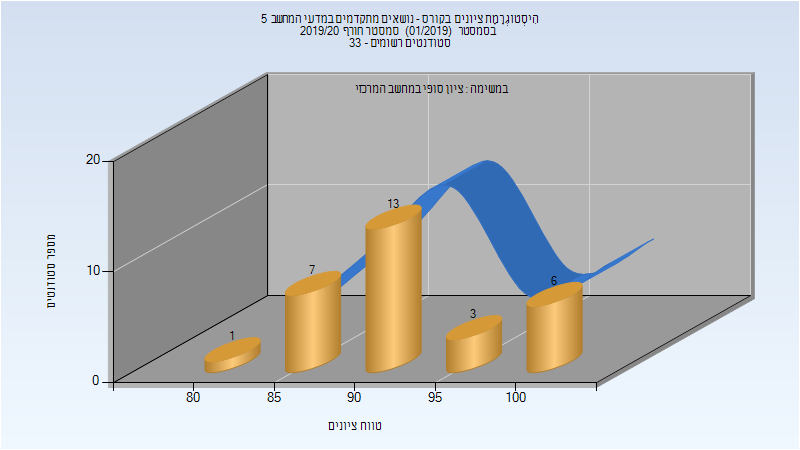
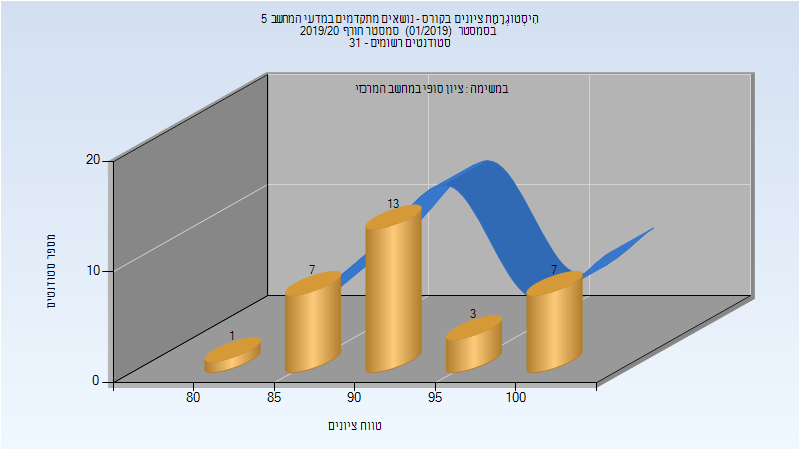
Deploy michael-maltsev/technion-histograms to github.com/michael-maltsev/technion-histograms.git:gh-pages

Changed region(s): [[0.6562, 0.4978, 0.8125, 0.6844]]

diff --git a/104285/index.html b/104285/index.html
@@ -935,6 +935,58 @@
 </tr>
 </tbody>
 </table>
+<h3>מבחן מועד ב'</h3>
+<p><img src="201902/Exam_B.png" alt="201902 Exam_B" /></p>
+<table>
+<thead>
+<tr>
+<th>סטודנטים</th>
+<th>עברו/נכשלו</th>
+<th>אחוז עוברים</th>
+<th>ציון מינימלי</th>
+<th>ציון מקסימלי</th>
+<th>ממוצע</th>
+<th>חציון</th>
+</tr>
+</thead>
+<tbody>
+<tr>
+<td>13</td>
+<td>12/1</td>
+<td>92</td>
+<td>54</td>
+<td>96</td>
+<td>74.462</td>
+<td>74</td>
+</tr>
+</tbody>
+</table>
+<h3>סופי מועד ב'</h3>
+<p><img src="201902/Final_B.png" alt="201902 Final_B" /></p>
+<table>
+<thead>
+<tr>
+<th>סטודנטים</th>
+<th>עברו/נכשלו</th>
+<th>אחוז עוברים</th>
+<th>ציון מינימלי</th>
+<th>ציון מקסימלי</th>
+<th>ממוצע</th>
+<th>חציון</th>
+</tr>
+</thead>
+<tbody>
+<tr>
+<td>13</td>
+<td>13/0</td>
+<td>100</td>
+<td>57</td>
+<td>99</td>
+<td>78</td>
+<td>76</td>
+</tr>
+</tbody>
+</table>
 <h3>סופי</h3>
 <p><img src="201902/Finals.png" alt="201902 Finals" /></p>
 <table>

diff --git a/324259/index.html b/324259/index.html
@@ -78,6 +78,32 @@
 </tr>
 </tbody>
 </table>
+<h3>סופי מועד ב'</h3>
+<p><img src="201902/Final_B.png" alt="201902 Final_B" /></p>
+<table>
+<thead>
+<tr>
+<th>סטודנטים</th>
+<th>עברו/נכשלו</th>
+<th>אחוז עוברים</th>
+<th>ציון מינימלי</th>
+<th>ציון מקסימלי</th>
+<th>ממוצע</th>
+<th>חציון</th>
+</tr>
+</thead>
+<tbody>
+<tr>
+<td>30</td>
+<td>29/1</td>
+<td>97</td>
+<td>50</td>
+<td>97.5</td>
+<td>81.333</td>
+<td>80</td>
+</tr>
+</tbody>
+</table>
 <h3>סופי</h3>
 <p><img src="201902/Finals.png" alt="201902 Finals" /></p>
 <table>

diff --git a/236520/index.html b/236520/index.html
@@ -77,5 +77,31 @@
 </tr>
 </tbody>
 </table>
+<h3>סופי</h3>
+<p><img src="201902/Finals.png" alt="201902 Finals" /></p>
+<table>
+<thead>
+<tr>
+<th>סטודנטים</th>
+<th>עברו/נכשלו</th>
+<th>אחוז עוברים</th>
+<th>ציון מינימלי</th>
+<th>ציון מקסימלי</th>
+<th>ממוצע</th>
+<th>חציון</th>
+</tr>
+</thead>
+<tbody>
+<tr>
+<td>10</td>
+<td>10/0</td>
+<td>100</td>
+<td>68</td>
+<td>99</td>
+<td>86.9</td>
+<td>89.5</td>
+</tr>
+</tbody>
+</table>
   </body>
 </html>

diff --git a/104183/index.html b/104183/index.html
@@ -51,5 +51,31 @@
 </tr>
 </tbody>
 </table>
+<h3>סופי</h3>
+<p><img src="201901/Finals.png" alt="201901 Finals" /></p>
+<table>
+<thead>
+<tr>
+<th>סטודנטים</th>
+<th>עברו/נכשלו</th>
+<th>אחוז עוברים</th>
+<th>ציון מינימלי</th>
+<th>ציון מקסימלי</th>
+<th>ממוצע</th>
+<th>חציון</th>
+</tr>
+</thead>
+<tbody>
+<tr>
+<td>10</td>
+<td>10/0</td>
+<td>100</td>
+<td>90</td>
+<td>100</td>
+<td>99</td>
+<td>100</td>
+</tr>
+</tbody>
+</table>
   </body>
 </html>

diff --git a/236605/index.html b/236605/index.html
@@ -134,12 +134,12 @@
 </thead>
 <tbody>
 <tr>
-<td>30</td>
-<td>30/0</td>
+<td>31</td>
+<td>31/0</td>
 <td>100</td>
 <td>80</td>
 <td>100</td>
-<td>92.733</td>
+<td>92.968</td>
 <td>93</td>
 </tr>
 </tbody>

diff --git a/104285/README.md b/104285/README.md
@@ -291,6 +291,22 @@
 | ---- | ---- | ---- | ---- | ---- | ---- | ---- |
 | 29 | 25/4 | 86 | 21 | 100 | 77.103 | 84 |
 
+### מבחן מועד ב'
+
+![201902 Exam_B](201902/Exam_B.png)
+
+| סטודנטים | עברו/נכשלו | אחוז עוברים | ציון מינימלי | ציון מקסימלי | ממוצע | חציון |
+| ---- | ---- | ---- | ---- | ---- | ---- | ---- |
+| 13 | 12/1 | 92 | 54 | 96 | 74.462 | 74 |
+
+### סופי מועד ב'
+
+![201902 Final_B](201902/Final_B.png)
+
+| סטודנטים | עברו/נכשלו | אחוז עוברים | ציון מינימלי | ציון מקסימלי | ממוצע | חציון |
+| ---- | ---- | ---- | ---- | ---- | ---- | ---- |
+| 13 | 13/0 | 100 | 57 | 99 | 78 | 76 |
+
 ### סופי
 
 ![201902 Finals](201902/Finals.png)

diff --git a/324259/README.md b/324259/README.md
@@ -18,6 +18,14 @@
 | ---- | ---- | ---- | ---- | ---- | ---- | ---- |
 | 71 | 70/1 | 99 | 52.5 | 100 | 84.824 | 85 |
 
+### סופי מועד ב'
+
+![201902 Final_B](201902/Final_B.png)
+
+| סטודנטים | עברו/נכשלו | אחוז עוברים | ציון מינימלי | ציון מקסימלי | ממוצע | חציון |
+| ---- | ---- | ---- | ---- | ---- | ---- | ---- |
+| 30 | 29/1 | 97 | 50 | 97.5 | 81.333 | 80 |
+
 ### סופי
 
 ![201902 Finals](201902/Finals.png)

diff --git a/236520/README.md b/236520/README.md
@@ -20,3 +20,11 @@
 | ---- | ---- |
 | רוט רוני | מרצה - אחראי מקצוע |
 
+### סופי
+
+![201902 Finals](201902/Finals.png)
+
+| סטודנטים | עברו/נכשלו | אחוז עוברים | ציון מינימלי | ציון מקסימלי | ממוצע | חציון |
+| ---- | ---- | ---- | ---- | ---- | ---- | ---- |
+| 10 | 10/0 | 100 | 68 | 99 | 86.9 | 89.5 |
+

diff --git a/104183/README.md b/104183/README.md
@@ -12,3 +12,11 @@
 | ---- | ---- |
 | מאירי חן | מרצה - אחראי מקצוע |
 
+### סופי
+
+![201901 Finals](201901/Finals.png)
+
+| סטודנטים | עברו/נכשלו | אחוז עוברים | ציון מינימלי | ציון מקסימלי | ממוצע | חציון |
+| ---- | ---- | ---- | ---- | ---- | ---- | ---- |
+| 10 | 10/0 | 100 | 90 | 100 | 99 | 100 |
+

diff --git a/236605/README.md b/236605/README.md
@@ -40,5 +40,5 @@
 
 | סטודנטים | עברו/נכשלו | אחוז עוברים | ציון מינימלי | ציון מקסימלי | ממוצע | חציון |
 | ---- | ---- | ---- | ---- | ---- | ---- | ---- |
-| 30 | 30/0 | 100 | 80 | 100 | 92.733 | 93 |
+| 31 | 31/0 | 100 | 80 | 100 | 92.968 | 93 |
 
